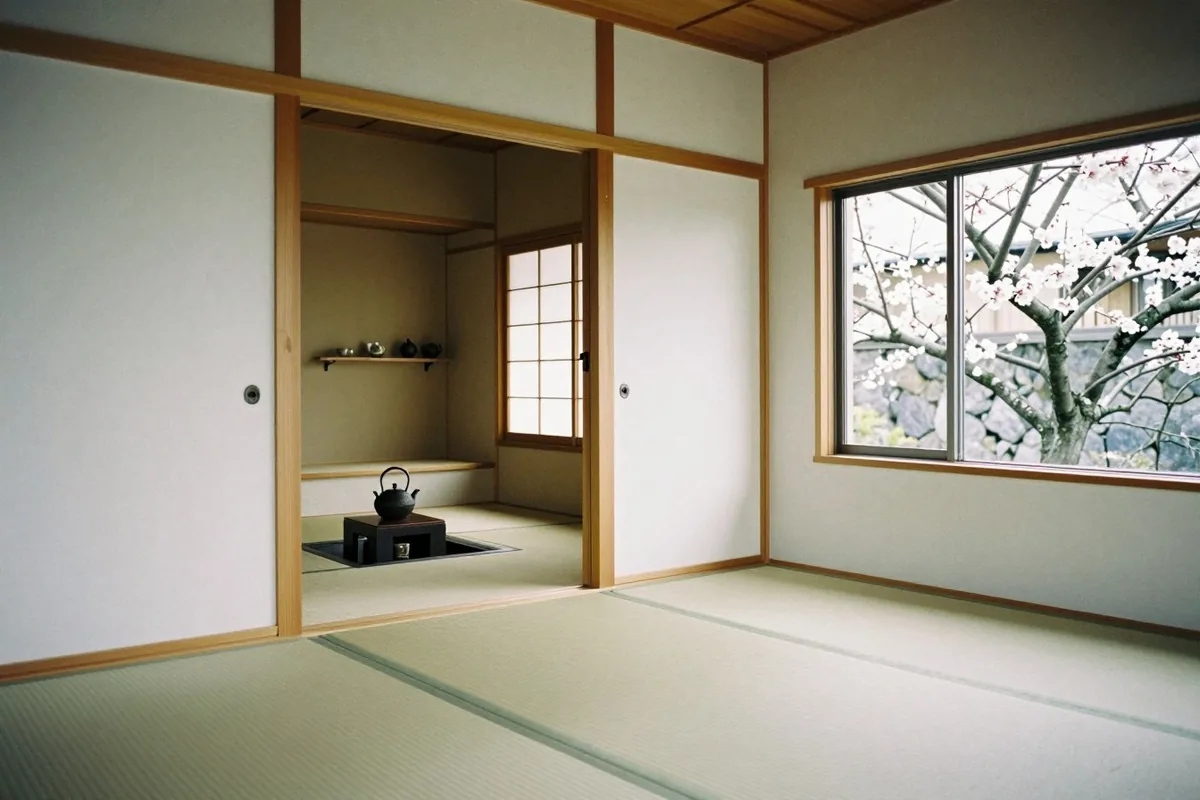
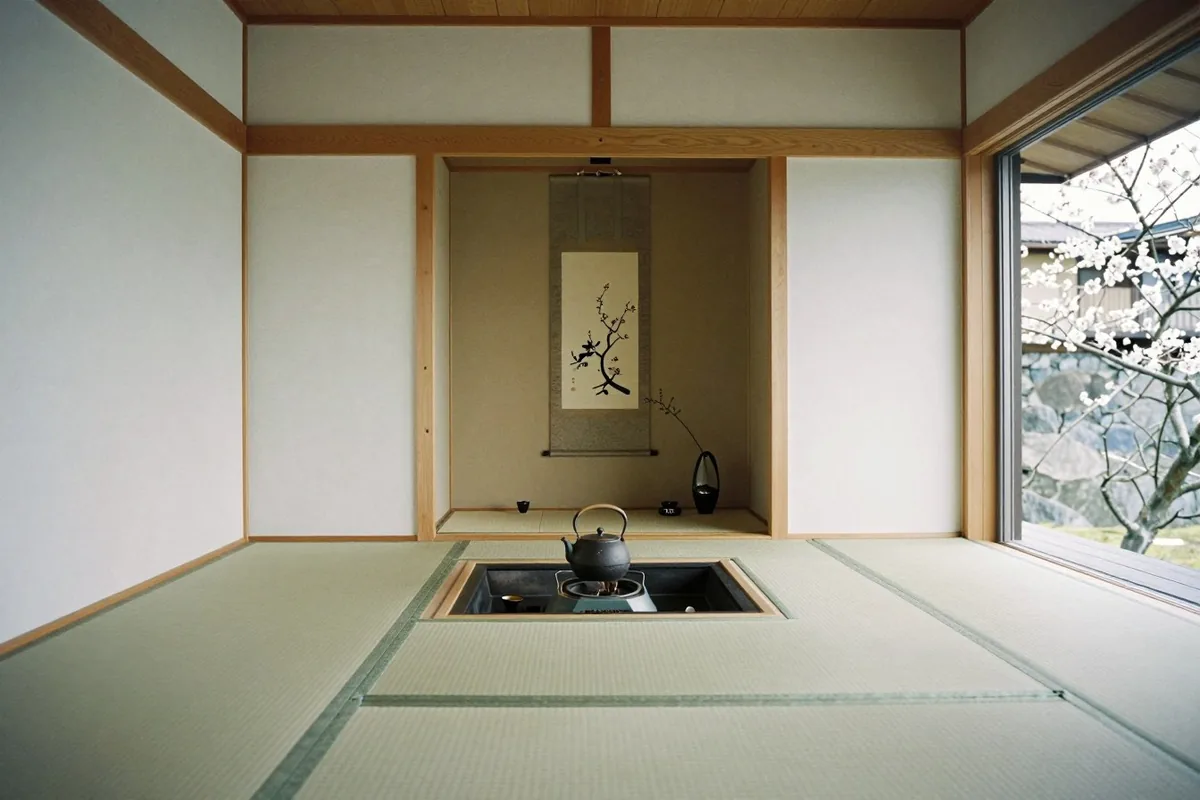
sumikawa-booklet: redo Ume and Hiiragi rooms to differ from each other

diff --git a/sumikawa-booklet/rooms/index.html b/sumikawa-booklet/rooms/index.html
@@ -106,8 +106,8 @@
         <details class="std-room" id="ume">
           <summary class="std-room__summary"><span><span class="std-room__name press">梅</span><span class="std-room__copy">早春に、いちばん早く春が来る。</span></span></summary>
           <div class="std-room__body">
-            <figure class="print"><div class="print__frame"><img src="../assets/img/rooms/room-ume.webp" alt="梅の客室。次の間は炉を切った茶の間、窓の外は梅の木と石垣。" loading="lazy" width="960" height="640"></div><figcaption>梅</figcaption></figure>
-            <div><dl class="spec"><dt>広さ</dt><dd>約45㎡（和室10畳＋次の間＋広縁）</dd><dt>定員</dt><dd>2〜4名</dd><dt>寝具</dt><dd>布団（ベッド対応）</dd><dt>作り</dt><dd>次の間は炉を切った茶の間</dd><dt>眺望</dt><dd>梅の木と石垣</dd><dt>設備</dt><dd>冷暖房・床暖房・冷蔵庫・金庫・Wi-Fi・浴衣</dd><dt>料金の目安</dt><dd>36,000円〜／1名（1泊2食・税サ込・サンプル）</dd></dl><a class="link-more" href="../plans/?room=ume#reserve">この部屋で泊まる</a></div>
+            <figure class="print"><div class="print__frame"><img src="../assets/img/rooms/room-ume.webp" alt="梅の客室。床の間と炉を備えた茶の間、窓の外は梅の木と石垣。" loading="lazy" width="960" height="640"></div><figcaption>梅</figcaption></figure>
+            <div><dl class="spec"><dt>広さ</dt><dd>約45㎡（和室10畳＋次の間＋広縁）</dd><dt>定員</dt><dd>2〜4名</dd><dt>寝具</dt><dd>布団（ベッド対応）</dd><dt>作り</dt><dd>床の間と炉を備えた茶の間</dd><dt>眺望</dt><dd>梅の木と石垣</dd><dt>設備</dt><dd>冷暖房・床暖房・冷蔵庫・金庫・Wi-Fi・浴衣</dd><dt>料金の目安</dt><dd>36,000円〜／1名（1泊2食・税サ込・サンプル）</dd></dl><a class="link-more" href="../plans/?room=ume#reserve">この部屋で泊まる</a></div>
           </div>
         </details>
         <details class="std-room" id="matsu">
@@ -120,8 +120,8 @@
         <details class="std-room" id="hiiragi">
           <summary class="std-room__summary"><span><span class="std-room__name press">柊</span><span class="std-room__copy">冬は、庭が主役になる。</span></span></summary>
           <div class="std-room__body">
-            <figure class="print"><div class="print__frame"><img src="../assets/img/rooms/room-hiiragi.webp" alt="柊の客室。次の間に掘りごたつ、窓の外は柊と小さな庭。" loading="lazy" width="960" height="640"></div><figcaption>柊</figcaption></figure>
-            <div><dl class="spec"><dt>広さ</dt><dd>約45㎡（和室10畳＋次の間＋広縁）</dd><dt>定員</dt><dd>2〜4名</dd><dt>寝具</dt><dd>布団（ベッド対応）</dd><dt>作り</dt><dd>次の間に掘りごたつ</dd><dt>眺望</dt><dd>柊と小さな庭</dd><dt>設備</dt><dd>冷暖房・床暖房・冷蔵庫・金庫・Wi-Fi・浴衣</dd><dt>料金の目安</dt><dd>36,000円〜／1名（1泊2食・税サ込・サンプル）</dd></dl><a class="link-more" href="../plans/?room=hiiragi#reserve">この部屋で泊まる</a></div>
+            <figure class="print"><div class="print__frame"><img src="../assets/img/rooms/room-hiiragi.webp" alt="柊の客室。出窓に畳の腰掛け、窓の外は柊と小さな庭。" loading="lazy" width="960" height="640"></div><figcaption>柊</figcaption></figure>
+            <div><dl class="spec"><dt>広さ</dt><dd>約45㎡（和室10畳＋次の間＋広縁）</dd><dt>定員</dt><dd>2〜4名</dd><dt>寝具</dt><dd>布団（ベッド対応）</dd><dt>作り</dt><dd>出窓に畳の腰掛け</dd><dt>眺望</dt><dd>柊と小さな庭</dd><dt>設備</dt><dd>冷暖房・床暖房・冷蔵庫・金庫・Wi-Fi・浴衣</dd><dt>料金の目安</dt><dd>36,000円〜／1名（1泊2食・税サ込・サンプル）</dd></dl><a class="link-more" href="../plans/?room=hiiragi#reserve">この部屋で泊まる</a></div>
           </div>
         </details>
 
